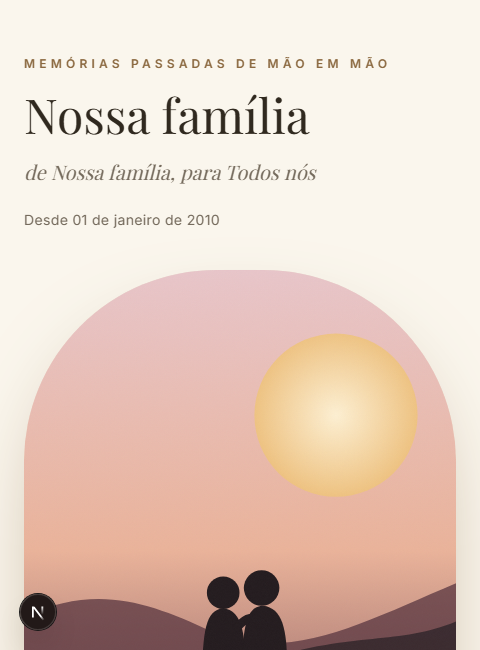
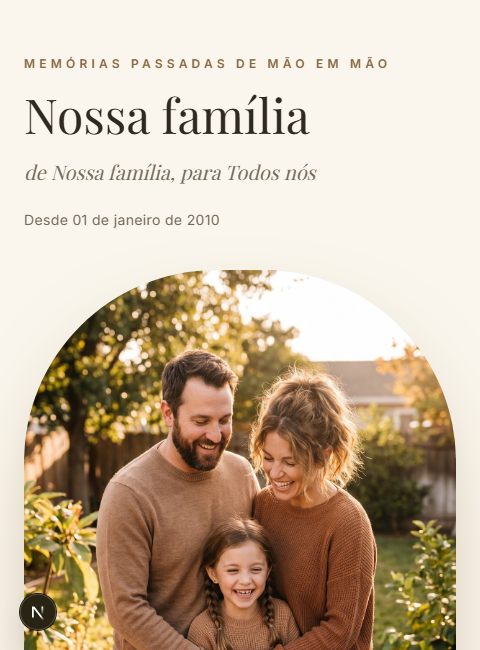
feat: fotos reais de demonstração para todos os 7 nichos de template
Trocei o ícone genérico em SVG (silhueta) pela foto real de
demonstração nos nichos que ainda não tinham: amizade, família, pet,
bebê e casamento (romance e aniversário já tinham). Fotos geradas por
IA (não fotos de pessoas reais da internet — evita problema de direito
de imagem), no mesmo padrão visual das já existentes.

Recapturei os 21 cards do catálogo de modelos e os 4 previews da home
para refletir a mudança, e diversifiquei os 4 estilos mostrados na
home (Romance, Família, Pet, Casamento em vez de 3x romance + pet).

Troquei também os cards do catálogo (/modelos) e da faixa "Vários
estilos" da home de next/image para <img> puro: o otimizador de
imagem do `next dev` ficava servindo versão antiga em cache mesmo após
o arquivo mudar no disco (mesmo problema já visto antes nesta sessão).

diff --git a/src/app/(marketing)/page.tsx b/src/app/(marketing)/page.tsx
@@ -251,22 +251,21 @@ function HowItWorks() {
 }
 
 const STYLE_PREVIEWS = [
-  { slug: "romance-classico", label: "Clássico" },
-  { slug: "amor-minimalista", label: "Minimalista" },
-  { slug: "nossa-linha-do-tempo", label: "Linha do tempo" },
+  { slug: "romance-classico", label: "Romance" },
+  { slug: "nossa-familia", label: "Família" },
   { slug: "melhor-amigo", label: "Pet" },
+  { slug: "nosso-sim", label: "Casamento" },
 ];
 
 function StylePhoneMockup({ slug, label }: { slug: string; label: string }) {
   return (
     <div className="h-[360px] w-[180px] rounded-[2rem] bg-[#1c1719] p-2 shadow-lg ring-1 ring-black/10 transition-transform duration-300 group-hover:-translate-y-1">
       <div className="relative h-full w-full overflow-hidden rounded-[1.5rem] bg-background">
-        <Image
+        {/* eslint-disable-next-line @next/next/no-img-element */}
+        <img
           src={`/marketing/style-preview/${slug}.png`}
           alt={`Prévia real do modelo ${label}`}
-          fill
-          sizes="180px"
-          className="object-cover object-top"
+          className="h-full w-full object-cover object-top"
         />
         <div className="absolute left-1/2 top-1.5 h-3 w-14 -translate-x-1/2 rounded-full bg-black/80" />
       </div>

diff --git a/src/app/(marketing)/modelos/[slug]/page.tsx b/src/app/(marketing)/modelos/[slug]/page.tsx
@@ -119,14 +119,17 @@ function demoContentFor(niche: Niche, colorScheme: string): ProjectContent {
 }
 
 function demoPhotosFor(niche: Niche): PublicPhoto[] {
-  const coverByNiche: Partial<Record<Niche, string>> = {
-    pet: "/placeholders/pet.svg",
-    bebe: "/placeholders/bebe.svg",
-    aniversario: "/demo/aniversario-cover.jpg",
+  const coverByNiche: Record<Niche, string> = {
     romance: "/demo/romance-cover.jpg",
+    amizade: "/demo/amizade-cover.jpg",
+    familia: "/demo/familia-cover.jpg",
+    pet: "/demo/pet-cover.jpg",
+    aniversario: "/demo/aniversario-cover.jpg",
+    bebe: "/demo/bebe-cover.jpg",
+    casamento: "/demo/casamento-cover.jpg",
   };
   return [
-    { assetId: "p1", url: coverByNiche[niche] ?? "/placeholders/foto-1.svg", altText: "Imagem de demonstração da capa", position: 0, isCover: true },
+    { assetId: "p1", url: coverByNiche[niche], altText: "Imagem de demonstração da capa", position: 0, isCover: true },
     { assetId: "p2", url: "/placeholders/foto-2.svg", altText: "Imagem de demonstração botânica", position: 1, isCover: false },
     { assetId: "p3", url: "/placeholders/foto-3.svg", altText: "Imagem de demonstração de paisagem", position: 2, isCover: false },
   ];

diff --git a/src/components/templates/template-thumbnail.tsx b/src/components/templates/template-thumbnail.tsx
@@ -1,4 +1,3 @@
-import Image from "next/image";
 import { cn } from "@/lib/utils";
 
 // Prévia real do template: recorte da capa renderizada em /modelos/[slug]
@@ -19,13 +18,11 @@ export function TemplateThumbnail({
         compact ? "h-36 rounded-2xl" : "aspect-[4/5] rounded-[1.75rem]",
       )}
     >
-      <Image
+      {/* eslint-disable-next-line @next/next/no-img-element */}
+      <img
         src={`/marketing/templates/${slug}.png`}
         alt={`Prévia do modelo ${name}`}
-        width={480}
-        height={660}
         className="h-full w-full object-cover object-top"
-        sizes={compact ? "160px" : "(min-width: 1024px) 33vw, (min-width: 640px) 50vw, 100vw"}
       />
     </div>
   );
